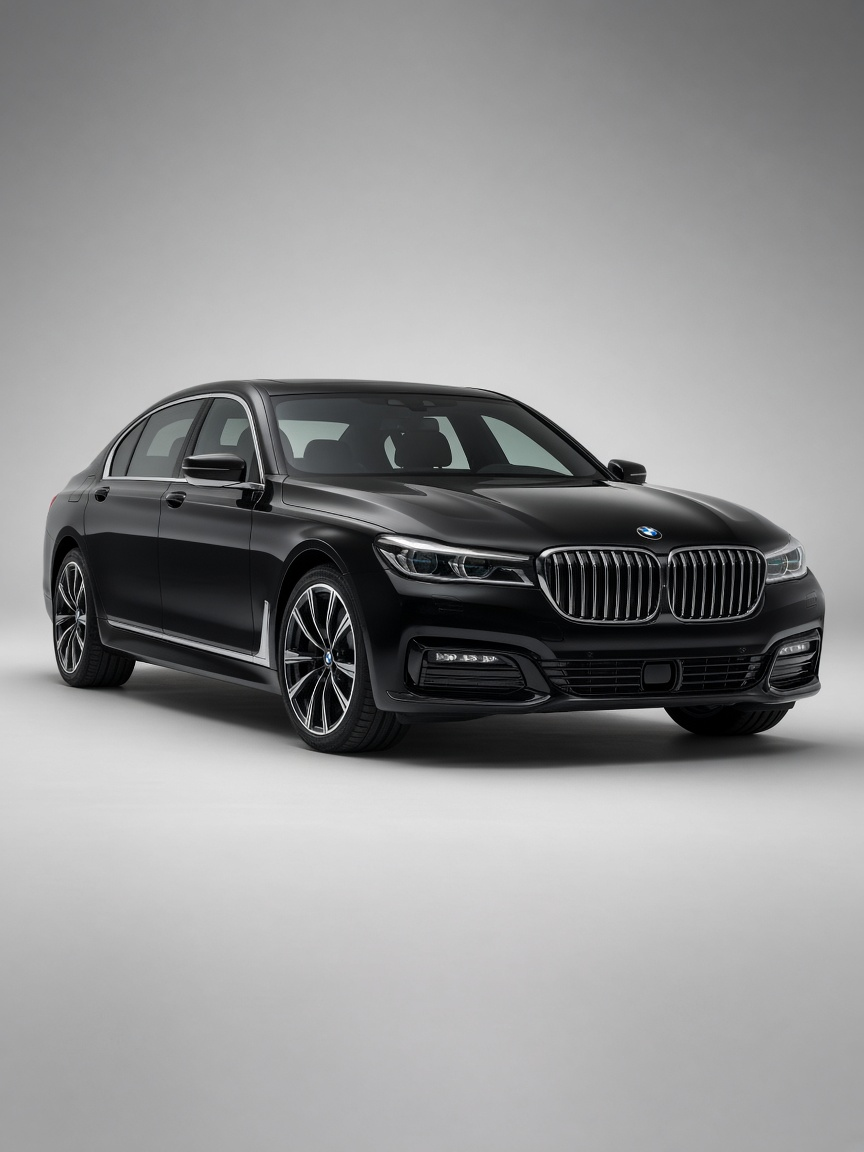
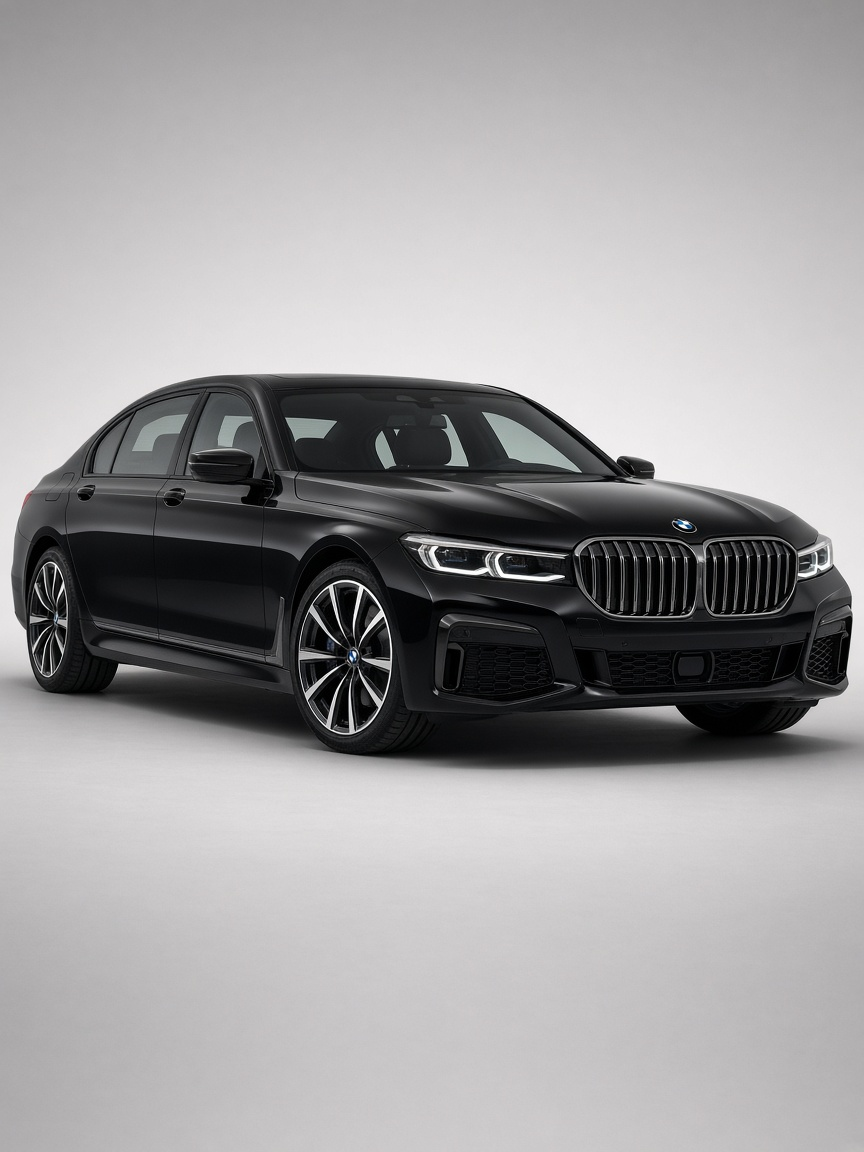
Align fleet vehicle framing and place fleet after inclusions.

diff --git a/components/marketing/marketing-fleet.tsx b/components/marketing/marketing-fleet.tsx
@@ -160,7 +160,7 @@ export function MarketingFleet() {
                   src={vehicle.image}
                   alt={`${vehicle.make} ${vehicle.model}`}
                   fill
-                  className="object-cover object-center"
+                  className="object-cover object-[center_70%]"
                   sizes="(min-width: 640px) 33vw, 85vw"
                 />
                 <div className="absolute inset-x-0 bottom-0 border-t border-white/20 bg-neutral-950/45 px-4 py-3 text-white backdrop-blur-md">

diff --git a/app/page.tsx b/app/page.tsx
@@ -12,8 +12,8 @@ export default function HomePage() {
       <SiteHeader />
       <MarketingHero />
       <MarketingServices />
-      <MarketingFleet />
       <MarketingInclusions />
+      <MarketingFleet />
       <MarketingCta />
       <SiteFooter />
     </>
